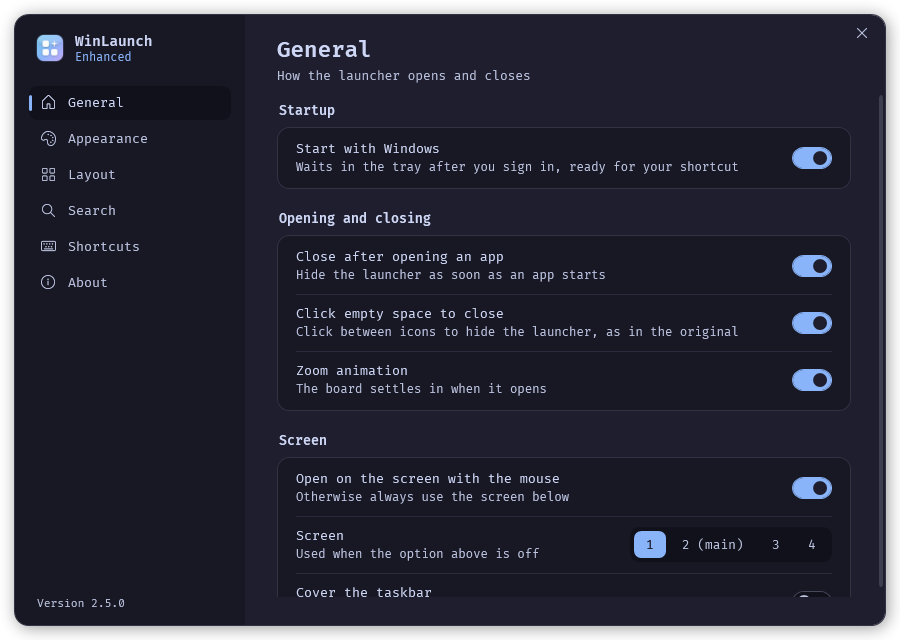
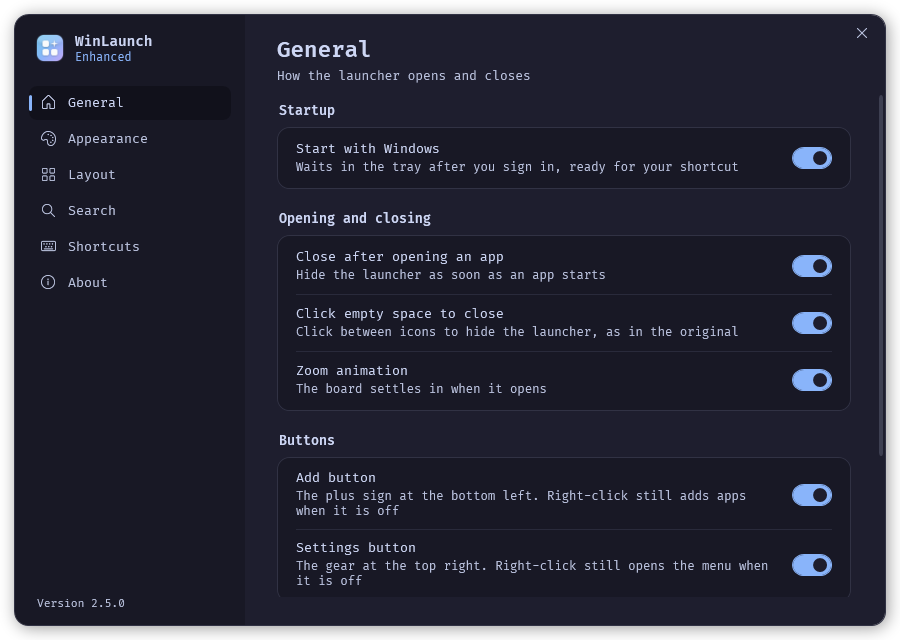
v2.5.1: show or hide the add, settings and page-dot buttons
Settings General gains a Buttons section with Add button and Settings button toggles; page dots already had one under Layout. The board applies all three live. Right-click menus still work with the buttons hidden.

diff --git a/src/WinLaunch.Enhanced/SettingsWindow.xaml.cs b/src/WinLaunch.Enhanced/SettingsWindow.xaml.cs
@@ -185,6 +185,11 @@ public partial class SettingsWindow : Window
             p.HideOnEmptyClick, v => { p.HideOnEmptyClick = v; Changed(); });
         Toggle(card, "Zoom animation", "The board settles in when it opens",
             p.OpenAnimation, v => { p.OpenAnimation = v; Changed(); });
+        card = Section("Buttons");
+        Toggle(card, "Add button", "The plus sign at the bottom left. Right-click still adds apps when it is off",
+            p.ShowAddButton, v => { p.ShowAddButton = v; Changed(); });
+        Toggle(card, "Settings button", "The gear at the top right. Right-click still opens the menu when it is off",
+            p.ShowSettingsButton, v => { p.ShowSettingsButton = v; Changed(); });
         card = Section("Screen");
         Toggle(card, "Open on the screen with the mouse", "Otherwise always use the screen below",
             s.OpenOnActiveDesktop, v => { s.OpenOnActiveDesktop = v; Changed(); });

diff --git a/src/WinLaunch.Enhanced/Views/SpringboardView.xaml.cs b/src/WinLaunch.Enhanced/Views/SpringboardView.xaml.cs
@@ -119,6 +119,8 @@ public partial class SpringboardView : UserControl
         Resources["PageColumns"] = Math.Max(1, s.Columns);
         Resources["PageRows"] = Math.Max(1, s.Rows);
         SearchPill.Visibility = s.SearchBarVisible ? Visibility.Visible : Visibility.Hidden;
+        AddButton.Visibility = VM.Prefs.ShowAddButton ? Visibility.Visible : Visibility.Collapsed;
+        MenuButton.Visibility = VM.Prefs.ShowSettingsButton ? Visibility.Visible : Visibility.Collapsed;
         Resources["ItemLabelVisibility"] = s.ShowItemIconText ? Visibility.Visible : Visibility.Collapsed;
         Resources["FolderLabelVisibility"] = s.ShowFolderIconText ? Visibility.Visible : Visibility.Collapsed;
         UpdateTileMetrics();

diff --git a/src/WinLaunch.Enhanced/Services/EnhancedPrefs.cs b/src/WinLaunch.Enhanced/Services/EnhancedPrefs.cs
@@ -22,6 +22,8 @@ public sealed class EnhancedPrefs
     public bool CheckForUpdates { get; set; } = true;
     public bool IncludePreReleases { get; set; } = false;
     public DateTime? LastUpdateCheck { get; set; } = null;
+    public bool ShowAddButton { get; set; } = true;
+    public bool ShowSettingsButton { get; set; } = true;
     public Dictionary<string, int> LaunchCounts { get; set; } = new();
 
     private static readonly JsonSerializerOptions Json = new() { WriteIndented = true };

diff --git a/README.md b/README.md
@@ -66,7 +66,7 @@ Enhanced reads and writes the same files as WinLaunch 0.7.x, in the same place
 Settings change the launcher as you adjust them:
 
 - General: start with Windows, close after opening an app, click empty space to
-  close, opening animation, which screen to use, and covering the taskbar.
+  close, opening animation, add and settings buttons, which screen to use, and covering the taskbar.
 - Appearance: seven themes (T3 Dark and Light, Catppuccin Mocha and Latte, Tokyo
   Night, Nord, Rose Pine); a wallpaper, blur, acrylic or solid background with dim
   and blur strength; font, text size, text shadow and whether names show.
